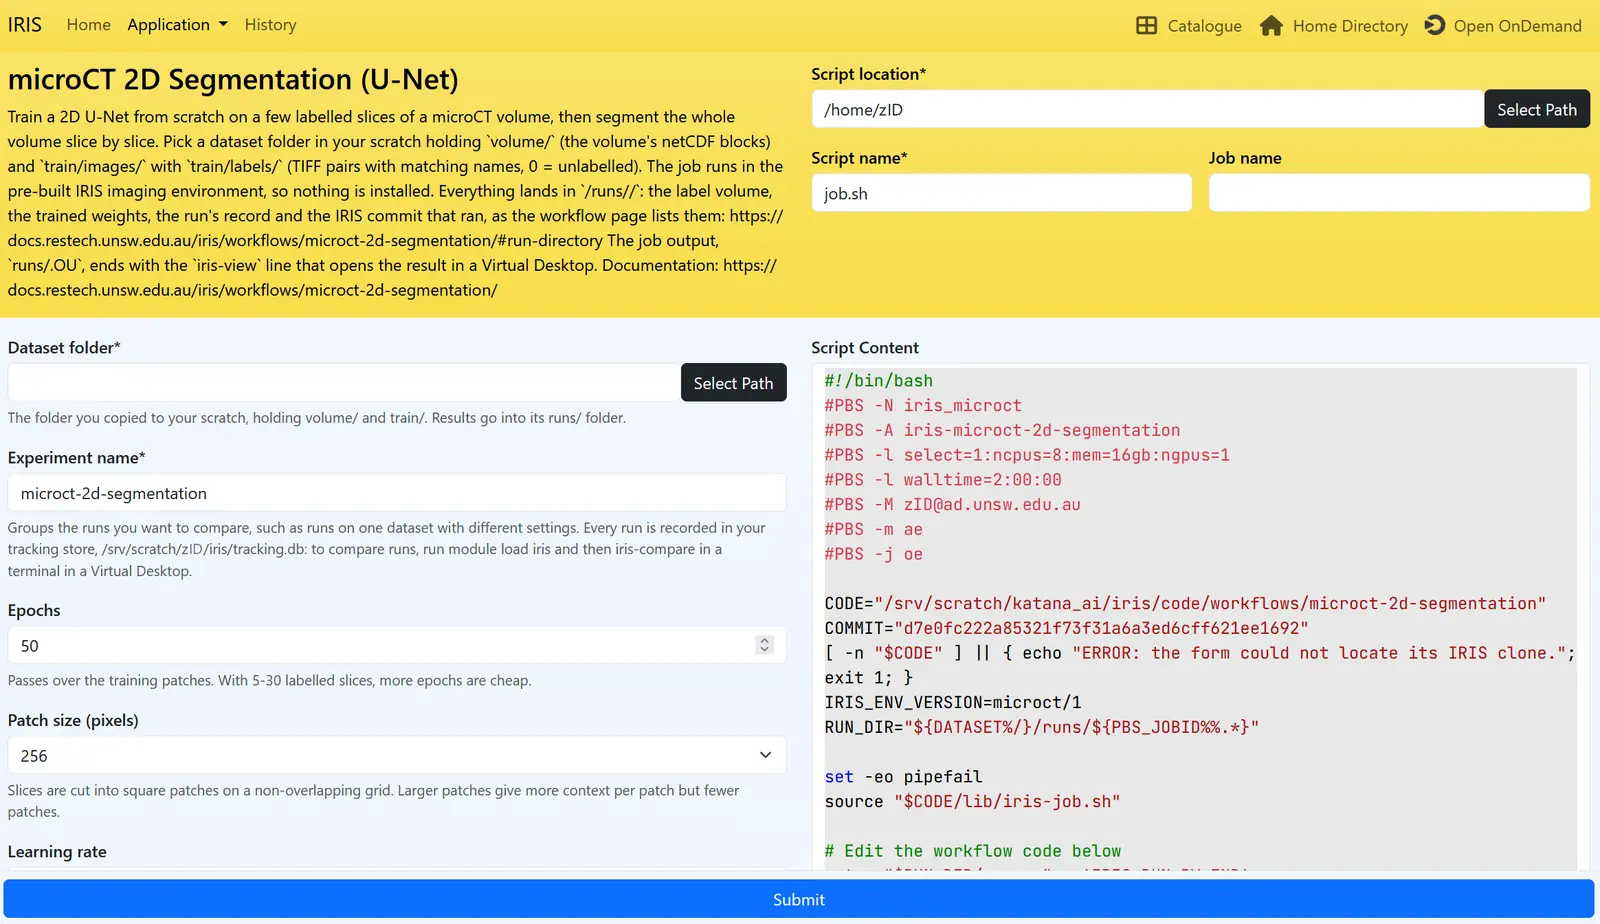
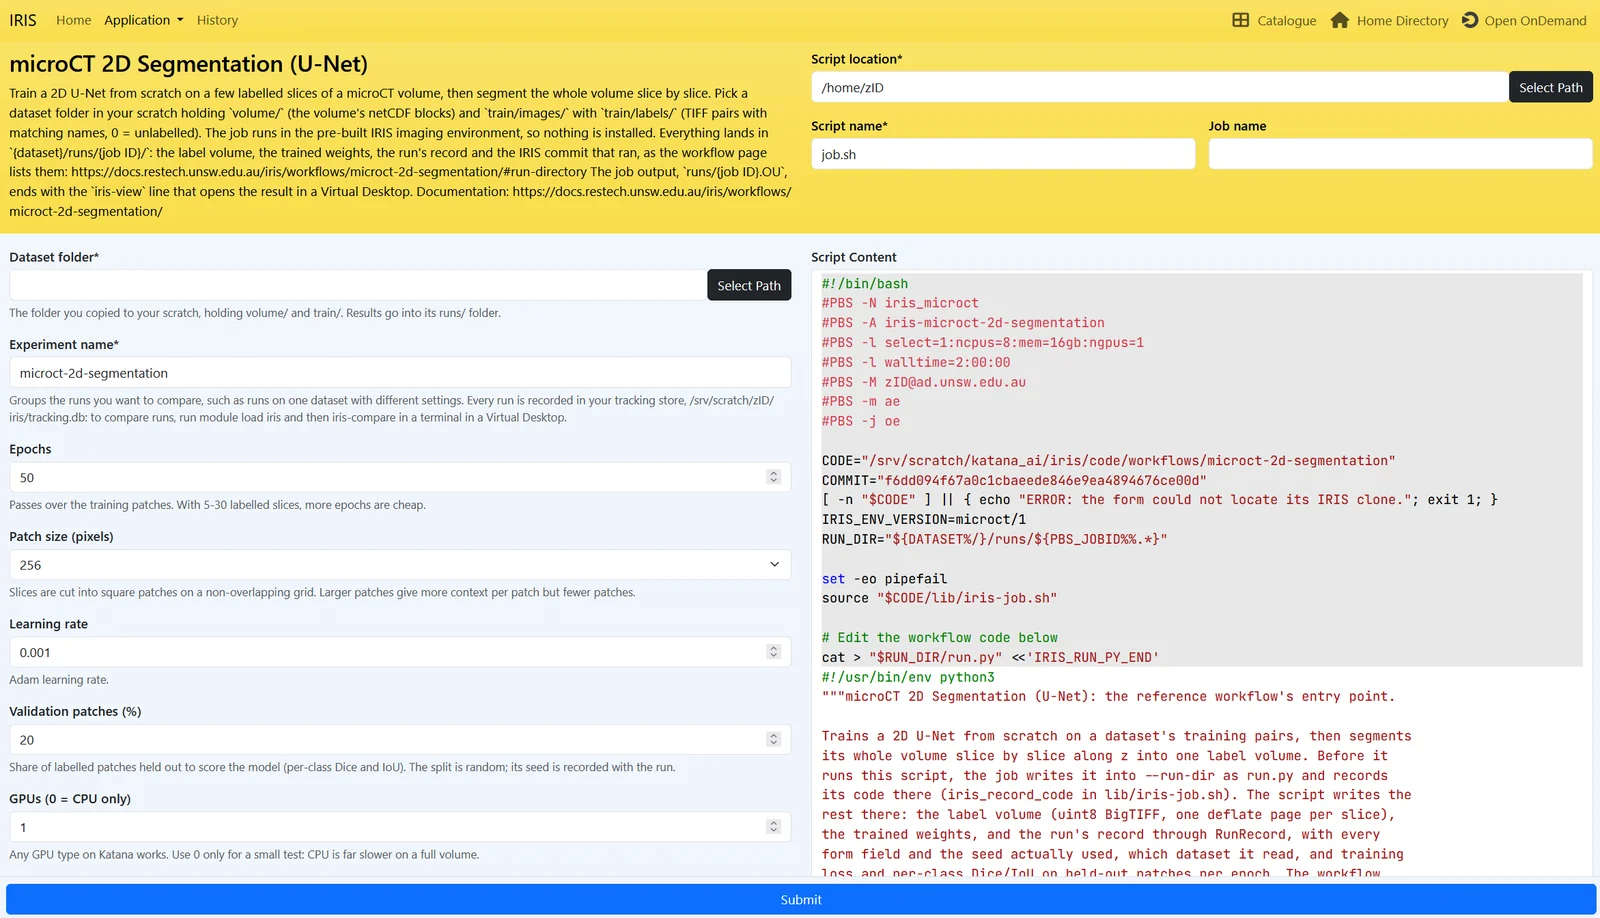
The microCT form screenshot and the WorkflowHub entry screenshot are retaken, 2026-11-20: the form's description shows {dataset}/runs/{job ID}/ and runs/{job ID}.OU, with the zID swapped for zID in the page before capturing rather than redacted pixel by pixel, and entry 2359, its description edited 

diff --git a/workflows/microct-2d-segmentation/index.html b/workflows/microct-2d-segmentation/index.html
@@ -39,9 +39,9 @@
         <li><code>train/images/</code> and <code>train/labels/</code> hold the same file names</li>
       </ul>
     </div>
-    <!-- Screenshot from a pilot run, 2026-11-18 (#216), zID redacted to "zID" pixel by pixel (#217): retake when the form changes, and for #238, which shows its description's {dataset} and {job ID}, swapping the zID in the page before capturing with #238's DevTools snippet. -->
+    <!-- Screenshot of the form as it opens, 2026-11-20 (#238), with the zID swapped for "zID" in the page before capturing: retake when the form changes, swapping it the same way with the DevTools snippet in #238's comments. -->
     <figure class="shot">
-      <a href="../../assets/screenshots/opencomposer-form.webp" target="_blank"><img src="../../assets/screenshots/opencomposer-form.webp" width="1600" height="924" loading="lazy" decoding="async" alt="This workflow's form in Katana OnDemand: its description at the top, the Dataset folder, Experiment name, Epochs and Patch size fields on the left, the job script the form writes on the right, and a Submit button along the bottom."></a>
+      <a href="../../assets/screenshots/opencomposer-form.webp" target="_blank"><img src="../../assets/screenshots/opencomposer-form.webp" width="1600" height="918" loading="lazy" decoding="async" alt="This workflow's form in Katana OnDemand: its description at the top, the Dataset folder, Experiment name, Epochs, Patch size, Learning rate, Validation patches and GPUs fields on the left, the job script the form writes on the right, and a Submit button along the bottom."></a>
       <figcaption>The form as it opens: its fields on the left, and on the right the job script they write.</figcaption>
     </figure>
   </div>
@@ -146,9 +146,9 @@
       <!-- Mint one as CONTRIBUTING.md says, add its DOI to CITATION.cff, then add one line per citable version above the newest, never a version number (bin/check "citable versions"):
       <li><a href="https://doi.org/DOI" target="_blank">DOI</a> · YYYY-MM-DD · commit <code>SHORT-SHA</code></li> -->
     </ul>
-    <!-- Screenshot of the WorkflowHub entry of the citable version listed above, logged out, 2026-11-18 (#216): retake once #238 fixes the entry's description, or when a newer citable version is minted. -->
+    <!-- Screenshot of the WorkflowHub entry of the citable version listed above, logged out, 2026-11-20 (#238): retake when the entry changes or a newer citable version is minted. -->
     <figure class="shot">
-      <a href="../../assets/screenshots/workflowhub-entry.webp" target="_blank"><img src="../../assets/screenshots/workflowhub-entry.webp" width="1600" height="1214" loading="lazy" decoding="async" alt="This workflow's WorkflowHub entry: its title, description and documentation link, its DOI, and its version history with the frozen commit 23e9314."></a>
+      <a href="../../assets/screenshots/workflowhub-entry.webp" target="_blank"><img src="../../assets/screenshots/workflowhub-entry.webp" width="1600" height="1101" loading="lazy" decoding="async" alt="This workflow's WorkflowHub entry: its title, description and documentation link, its DOI, and its version history with the frozen commit 23e9314."></a>
       <figcaption>The citable version's WorkflowHub entry, with its DOI and the commit it froze.</figcaption>
     </figure>
     <p>If you publish results from a run, cite the latest citable version at or before the commit in the run's <code>commit.txt</code>, and give that commit. If none is listed, or every one listed is newer than your commit, cite IRIS with this workflow's name and that commit instead. For an edited run, cite the same citable version and commit, and publish the run's <code>run.py</code> or <code>run.diff</code> alongside. Either way, acknowledge Katana and cite its DOI. <a href="https://github.com/unsw-restech/iris#citing-iris" target="_blank">The exact wording</a></p>

diff --git a/contribute/index.html b/contribute/index.html
@@ -77,9 +77,9 @@
     <li><span><strong>Wait for a review batch.</strong> The maintainer reviews every <code>ready</code> pull request together, about every fortnight, when the maintainer chooses: nothing enforces it, and yours waits until the next one. If your workflow needs a quick fix, say so in your pull request.</span></li>
     <li><span><strong>Merged, or closed with a reason.</strong> A merged workflow joins the catalogue with you named as its workflow owner. A closed pull request names the criterion it failed: fix that and reopen it.</span></li>
     <li id="mint"><div><strong>Mint its DOI.</strong> Join the UNSW ResTech team on WorkflowHub (Team 472), register the workflow there and mint its first citable version.
-      <!-- The reference workflow's WorkflowHub entry, logged out, 2026-11-18 (#216): retake with the reference workflow page's copy. -->
+      <!-- The reference workflow's WorkflowHub entry, logged out, 2026-11-20 (#238): retake with the reference workflow page's copy. -->
       <figure class="shot">
-        <a href="../assets/screenshots/workflowhub-entry.webp" target="_blank"><img src="../assets/screenshots/workflowhub-entry.webp" width="1600" height="1214" loading="lazy" decoding="async" alt="A workflow's WorkflowHub entry: its title, description and documentation link, its DOI, and its version history with the commit it froze."></a>
+        <a href="../assets/screenshots/workflowhub-entry.webp" target="_blank"><img src="../assets/screenshots/workflowhub-entry.webp" width="1600" height="1101" loading="lazy" decoding="async" alt="A workflow's WorkflowHub entry: its title, description and documentation link, its DOI, and its version history with the commit it froze."></a>
         <figcaption>A workflow's WorkflowHub entry, with its description and DOI.</figcaption>
       </figure></div></li>
   </ol>
